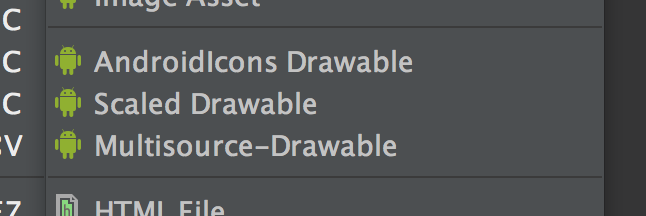
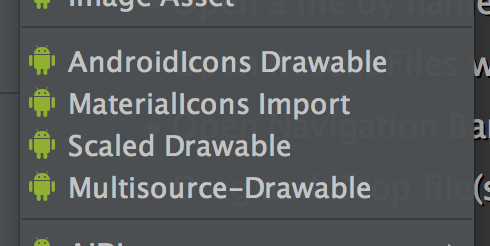
Add images for new dialogs

diff --git a/README.md b/README.md
@@ -3,7 +3,7 @@ Android Drawable Importer Plugin
 
 ![alt text](https://github.com/winterDroid/android-drawable-importer-intellij-plugin/raw/master/images/menu.png "New menu")
 
-This plugin consists of 3 main features. You can access them by a **right-click** anywhere, but not on a file, inside an **Android module** under **New**.
+This plugin consists of 4 main features. You can access them by a **right-click** anywhere, but **not** on a file, inside an **Android module** under **New**.
 
 1. AndroidIcons Drawable Import  
    You are able to select the asset, specify your color, change the target resource name and select all the resolutions you want to import.  
